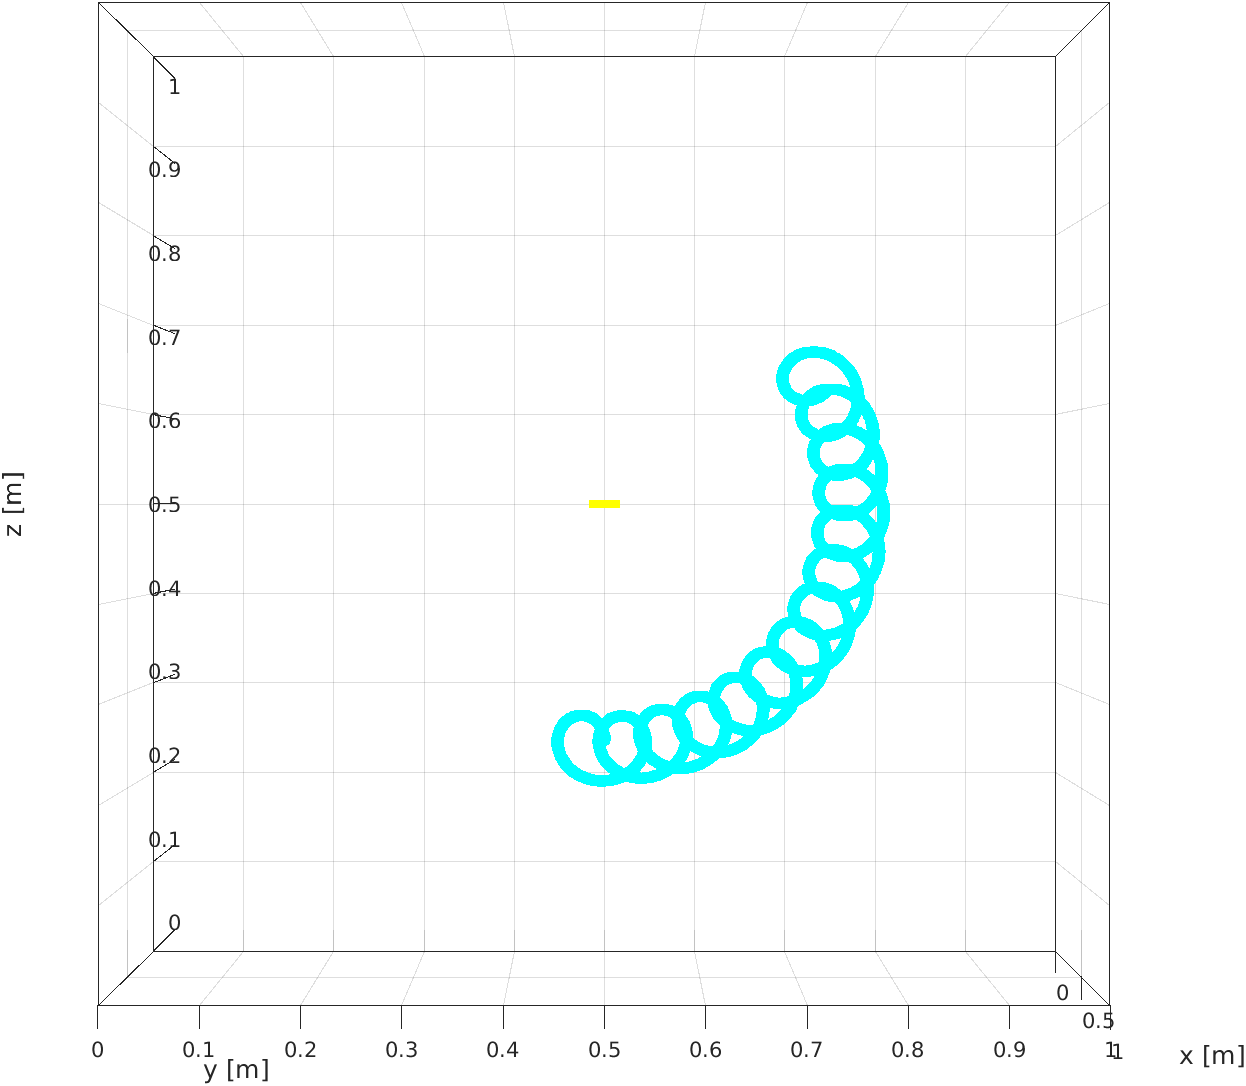
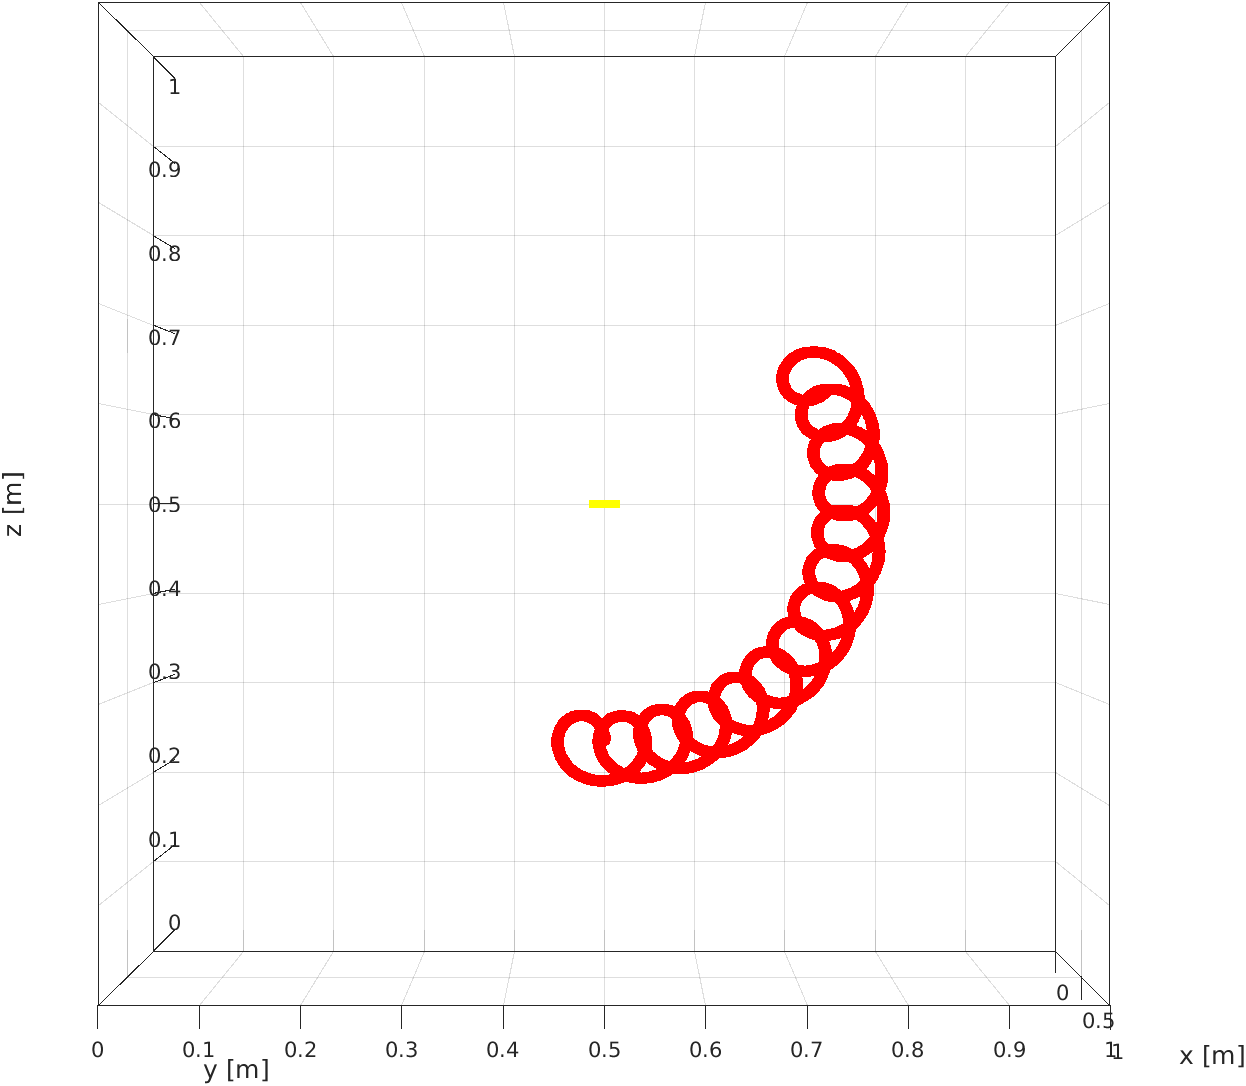
New images

Changed region(s): [[0.427, 0.3039, 0.7319, 0.7293]]

diff --git a/main.m b/main.m
@@ -1,11 +1,11 @@
 clf, clearvars, clc
 DT = 0.1;  % Time step
-T = 50;  % Total time for simulation, change between runs
+T = 300;  % Total time for simulation, change between runs
 PARTICLE_MASS = 1e-3;  % 1 g
 PARTICLE_CHARGE = 1e-9;  % 1 nC
 
 % Choose between "charge", "eDipole", "current" and "mDipole"
-TYPE = "eDipole";
+TYPE = "mDipole";
 
 % Toggle this to see shadows for all particles on the sides of the box and
 % shadows for field object.
@@ -38,7 +38,7 @@ switch TYPE
         particles(2).color = "r";
         particles(2).velocity = [0;0;0];
         particles(3).position = [0.8;0.5;0.5];
-        particles(3).color = "r";
+        particles(3).color = "c";
         particles(3).velocity = [0;0;0];
         particles(4).position = [0.5;0.8;0.5];
         particles(4).color = "r";
@@ -70,7 +70,7 @@ switch TYPE
     case "mDipole"
         particles(1).position = [0.5;0.5;0.25];
         particles(1).velocity = [0;0;0.01];
-        particles(1).color = "c";
+        particles(1).color = "r";
 end
 
 % All other properties have default values and are the same regardless of
@@ -107,7 +107,7 @@ ax = initialize_axes(ax);
 % view(0,0)
 
 % Uncomment for yz-plane view
-% view(90,0)
+view(90,0)
 
 % Uncomment for xy-plane view
 % view(0,90)
